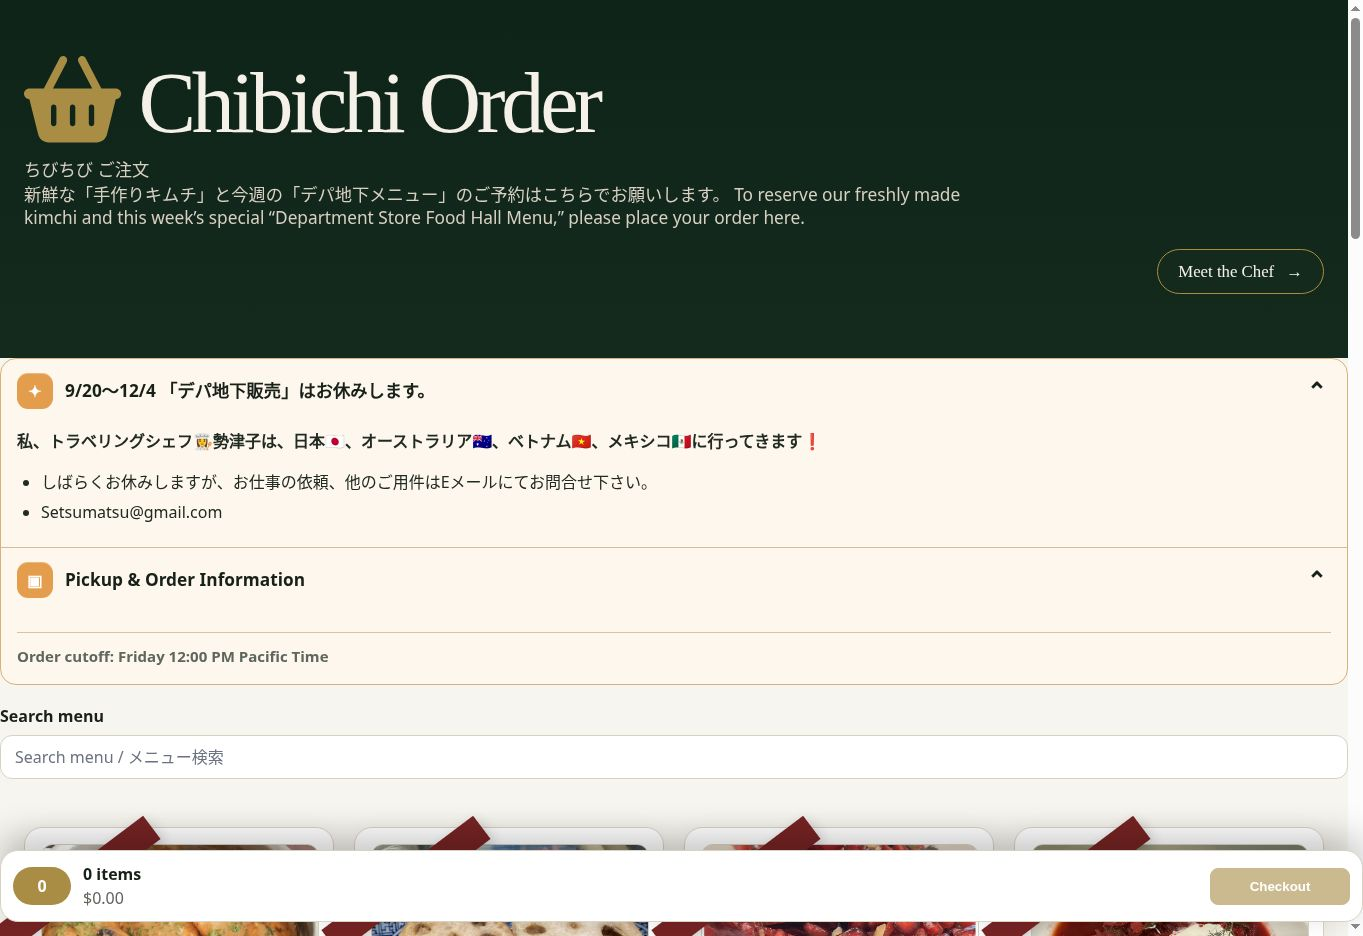
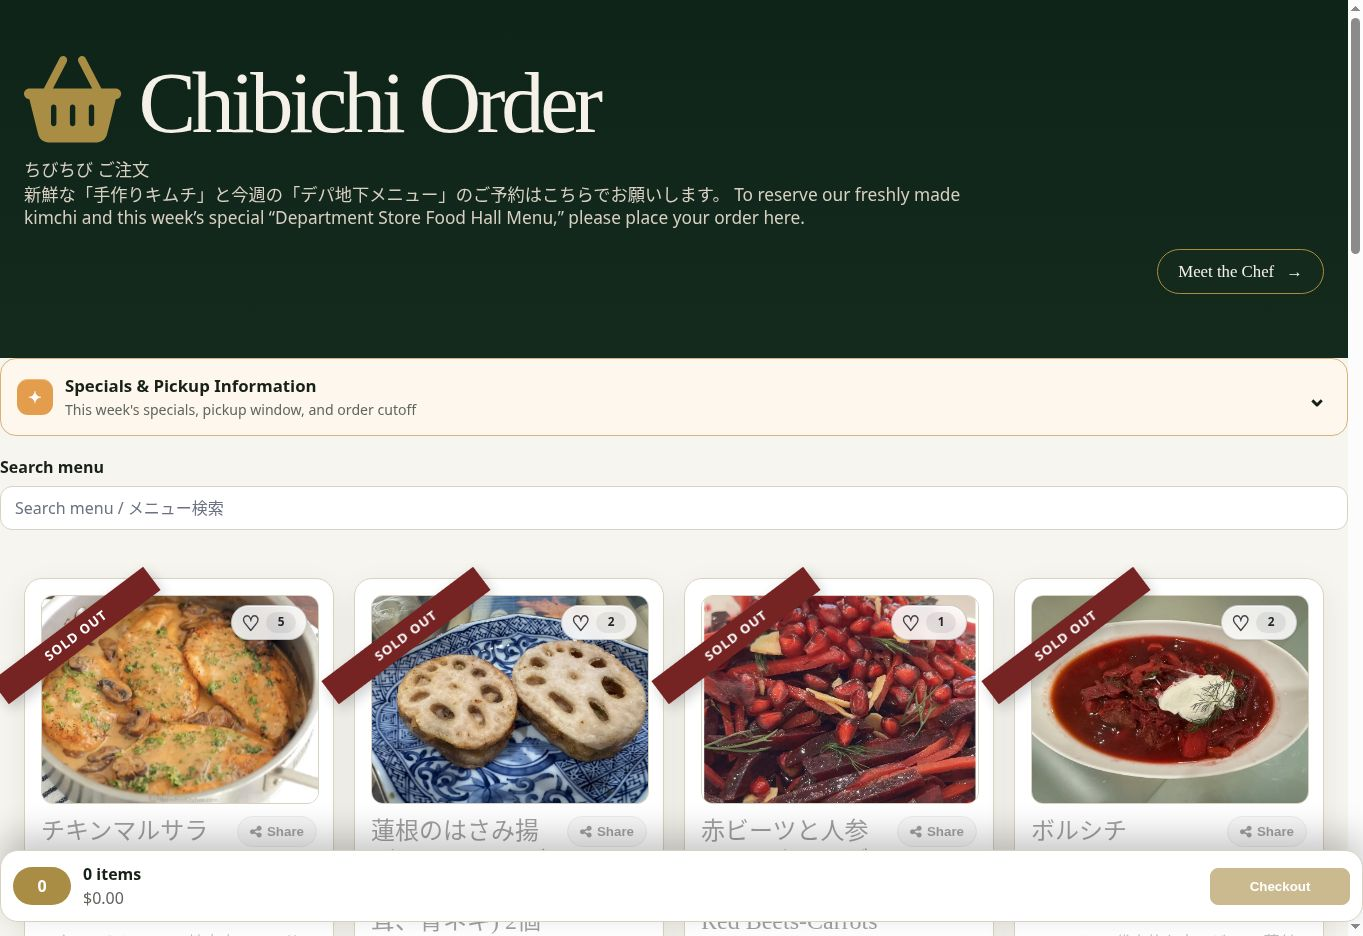
Improve Chibichi capture and add privacy-safe RZM8 screenshot

diff --git a/docs/gallery.md b/docs/gallery.md
@@ -18,10 +18,12 @@ Public landing page: discovery, personal connections, and global community.
 
 ## Chibichi / Setsuko’s Kitchen
 
-Public bilingual storefront. Sold-out items reflect the state at capture time.
+Bilingual storefront with food photography, menu search, and cart summary. Announcements are collapsed to highlight the menu. Sold-out indicators reflect actual availability at capture time.
 
-[![Chibichi storefront](../assets/chibichi.jpg)](https://chibichi.com/)
+[![Chibichi bilingual storefront and food menu](../assets/chibichi.jpg)](https://chibichi.com/)
 
 ## RZM8
 
-[Open the live resume experience](https://rzm8.com/). An authenticated workspace screenshot is omitted to keep account identity and private documents out of this public repository.
+Empty resume-targeting workspace showing the five-step journey, document upload, and editable resume area. Framed below the account header; no account identity or saved resume content is shown.
+
+[![RZM8 resume targeting workspace](../assets/rzm8.jpg)](https://rzm8.com/app/resume)
